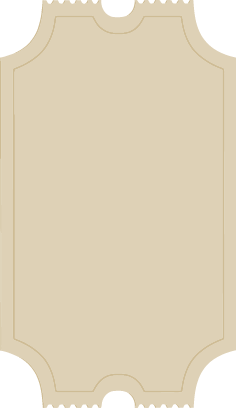
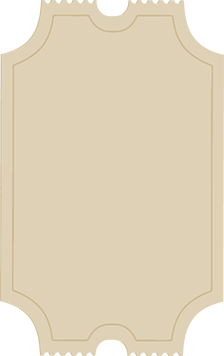
amend

diff --git a/css/main.css b/css/main.css
@@ -2036,6 +2036,7 @@ a,
   bottom: 60px;
   left: -30px;
   position: absolute;
+  display: none;
   z-index: 1;
   background: transparent url("i/clip.png") no-repeat center center;
   background-size: 100%;
@@ -2054,8 +2055,8 @@ a,
 .ticket1,
 .ticket2,
 .tickets {
-  width: 236px;
-  height: 411px;
+  width: 224px;
+  height: 356px;
 }
 .ticket1 {
   background: transparent url("i/ticket1.png") no-repeat center center;
@@ -2068,8 +2069,6 @@ a,
   }
 }
 .ticket2 {
-  width: 236px;
-  height: 411px;
   background: transparent url("i/ticket2.png") no-repeat center center;
   background-size: 100%;
   color: #c94a4a;
@@ -2085,7 +2084,7 @@ a,
 }
 .ticket2__header {
   position: absolute;
-  top: 21.5%;
+  top: 23%;
   width: 100%;
   font-size: 22px;
 }
@@ -2093,7 +2092,7 @@ a,
   position: absolute;
   width: 80%;
   left: 10%;
-  top: 36%;
+  top: 35%;
 }
 .ticket2__line {
   text-align: left;
@@ -2145,7 +2144,7 @@ a,
   text-align: center;
   position: absolute;
   left: 50%;
-  bottom: 10%;
+  bottom: 11%;
   display: inline-block;
   font-size: 20px;
   border-radius: 3px;
@@ -3084,7 +3083,7 @@ a,
   right: 40%;
 }
 .ferris-wheel .cabin.n-0 .human-2 {
-  top: -0.25em;
+  top: -0.375em;
   right: 60%;
 }
 .ferris-wheel .cabin.n-1 .human-0 {
@@ -3092,11 +3091,11 @@ a,
   right: 20%;
 }
 .ferris-wheel .cabin.n-1 .human-1 {
-  top: -0.25em;
+  top: -0.3125em;
   right: 40%;
 }
 .ferris-wheel .cabin.n-1 .human-2 {
-  top: -0.3125em;
+  top: -0.375em;
   right: 60%;
 }
 .ferris-wheel .cabin.n-2 .human-0 {
@@ -3104,11 +3103,11 @@ a,
   right: 20%;
 }
 .ferris-wheel .cabin.n-2 .human-1 {
-  top: -0.25em;
+  top: -0.1875em;
   right: 40%;
 }
 .ferris-wheel .cabin.n-2 .human-2 {
-  top: -0.1875em;
+  top: -0.25em;
   right: 60%;
 }
 .ferris-wheel .cabin.n-3 .human-0 {
@@ -3116,11 +3115,11 @@ a,
   right: 20%;
 }
 .ferris-wheel .cabin.n-3 .human-1 {
-  top: -0.25em;
+  top: -0.0625em;
   right: 40%;
 }
 .ferris-wheel .cabin.n-3 .human-2 {
-  top: -0.375em;
+  top: -0.3125em;
   right: 60%;
 }
 .ferris-wheel .cabin.n-4 .human-0 {
@@ -3128,11 +3127,11 @@ a,
   right: 20%;
 }
 .ferris-wheel .cabin.n-4 .human-1 {
-  top: -0.25em;
+  top: -0.3125em;
   right: 40%;
 }
 .ferris-wheel .cabin.n-4 .human-2 {
-  top: -0.4375em;
+  top: -0.25em;
   right: 60%;
 }
 .ferris-wheel .cabin.n-5 .human-0 {
@@ -3140,11 +3139,11 @@ a,
   right: 20%;
 }
 .ferris-wheel .cabin.n-5 .human-1 {
-  top: -0.3125em;
+  top: -0.25em;
   right: 40%;
 }
 .ferris-wheel .cabin.n-5 .human-2 {
-  top: -0.4375em;
+  top: -0.1875em;
   right: 60%;
 }
 .ferris-wheel .cabin.n-6 .human-0 {
@@ -3152,11 +3151,11 @@ a,
   right: 20%;
 }
 .ferris-wheel .cabin.n-6 .human-1 {
-  top: 0em;
+  top: -0.125em;
   right: 40%;
 }
 .ferris-wheel .cabin.n-6 .human-2 {
-  top: -0.4375em;
+  top: -0.3125em;
   right: 60%;
 }
 .ferris-wheel .cabin.n-7 .human-0 {
@@ -3168,7 +3167,7 @@ a,
   right: 40%;
 }
 .ferris-wheel .cabin.n-7 .human-2 {
-  top: -0.3125em;
+  top: -0.4375em;
   right: 60%;
 }
 .ferris-wheel .cabin.n-8 .human-0 {
@@ -3176,11 +3175,11 @@ a,
   right: 20%;
 }
 .ferris-wheel .cabin.n-8 .human-1 {
-  top: -0.1875em;
+  top: -0.25em;
   right: 40%;
 }
 .ferris-wheel .cabin.n-8 .human-2 {
-  top: -0.375em;
+  top: -0.1875em;
   right: 60%;
 }
 .ferris-wheel .cabin.n-9 .human-0 {
@@ -3188,11 +3187,11 @@ a,
   right: 20%;
 }
 .ferris-wheel .cabin.n-9 .human-1 {
-  top: 0em;
+  top: -0.3125em;
   right: 40%;
 }
 .ferris-wheel .cabin.n-9 .human-2 {
-  top: -0.3125em;
+  top: -0.4375em;
   right: 60%;
 }
 .ferris-wheel .cabin.n-10 .human-0 {
@@ -3200,11 +3199,11 @@ a,
   right: 20%;
 }
 .ferris-wheel .cabin.n-10 .human-1 {
-  top: -0.1875em;
+  top: -0.25em;
   right: 40%;
 }
 .ferris-wheel .cabin.n-10 .human-2 {
-  top: -0.4375em;
+  top: -0.25em;
   right: 60%;
 }
 .ferris-wheel .cabin.n-11 .human-0 {
@@ -3216,7 +3215,7 @@ a,
   right: 40%;
 }
 .ferris-wheel .cabin.n-11 .human-2 {
-  top: -0.4375em;
+  top: -0.3125em;
   right: 60%;
 }
 .ferris-wheel .cabin .icon {
@@ -4414,7 +4413,7 @@ a,
   position: absolute;
   bottom: 0;
   z-index: 10;
-  bottom: 50px;
+  bottom: 120px;
   left: 50%;
   margin-left: -30px;
   -webkit-transform: translateY(150%);

diff --git a/js/main.js b/js/main.js
@@ -716,10 +716,11 @@
       this.controller.addTween(start, tween, dur);
       start += dur - dur / 2;
       dur = ferrisCoef;
-      tween = TweenMax.to(this.$ferrisWheel.find(".human"), 1, {
-        y: 0
+      this.ferrisHumansTween = TweenMax.to(this.$ferrisWheel.find(".human"), 1, {
+        y: 0,
+        onUpdate: StatSocial.helpers.bind(this.onFerrisLastTweenUpdate, this)
       });
-      this.controller.addTween(start, tween, dur);
+      this.controller.addTween(start, this.ferrisHumansTween, dur);
       this.ferrisText = this.$('#js-ferris-text')[0];
       this.ferrisTextPath = this.$('#ferris-script')[0];
       start += dur / 2;
@@ -962,6 +963,13 @@
         onUpdate: StatSocial.helpers.bind(this.onTicket2Update, this)
       });
       return this.controller.addTween(start, this.ticket2, dur);
+    };
+
+    App.prototype.onFerrisLastTweenUpdate = function() {
+      var method;
+
+      method = this.ferrisHumansTween.progress() >= .5 ? 'addClass' : 'removeClass';
+      return this.$ferrisWheel[method]('is-open');
     };
 
     App.prototype.onCarouselLastTweenUpdate = function() {
